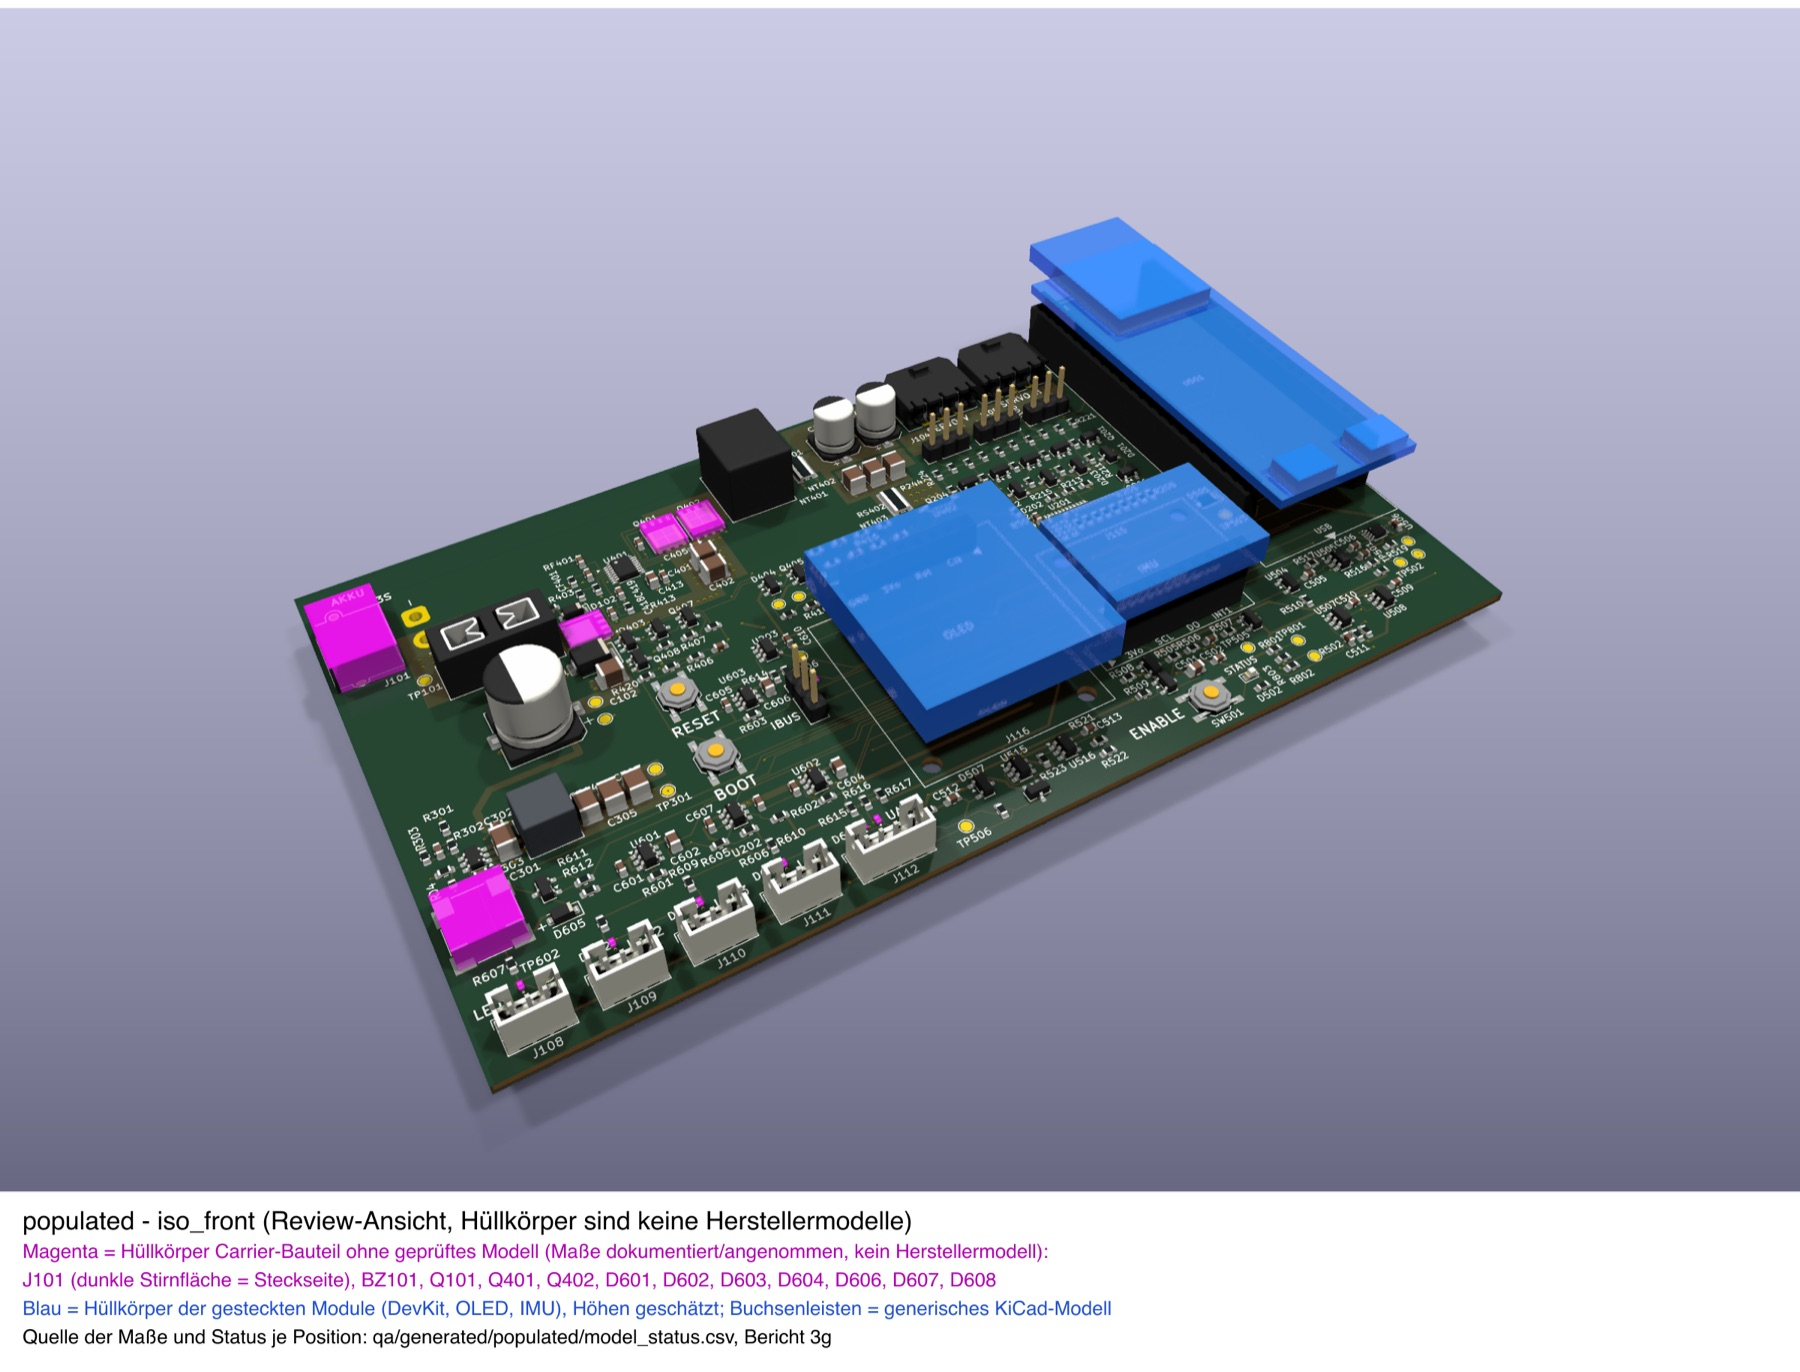
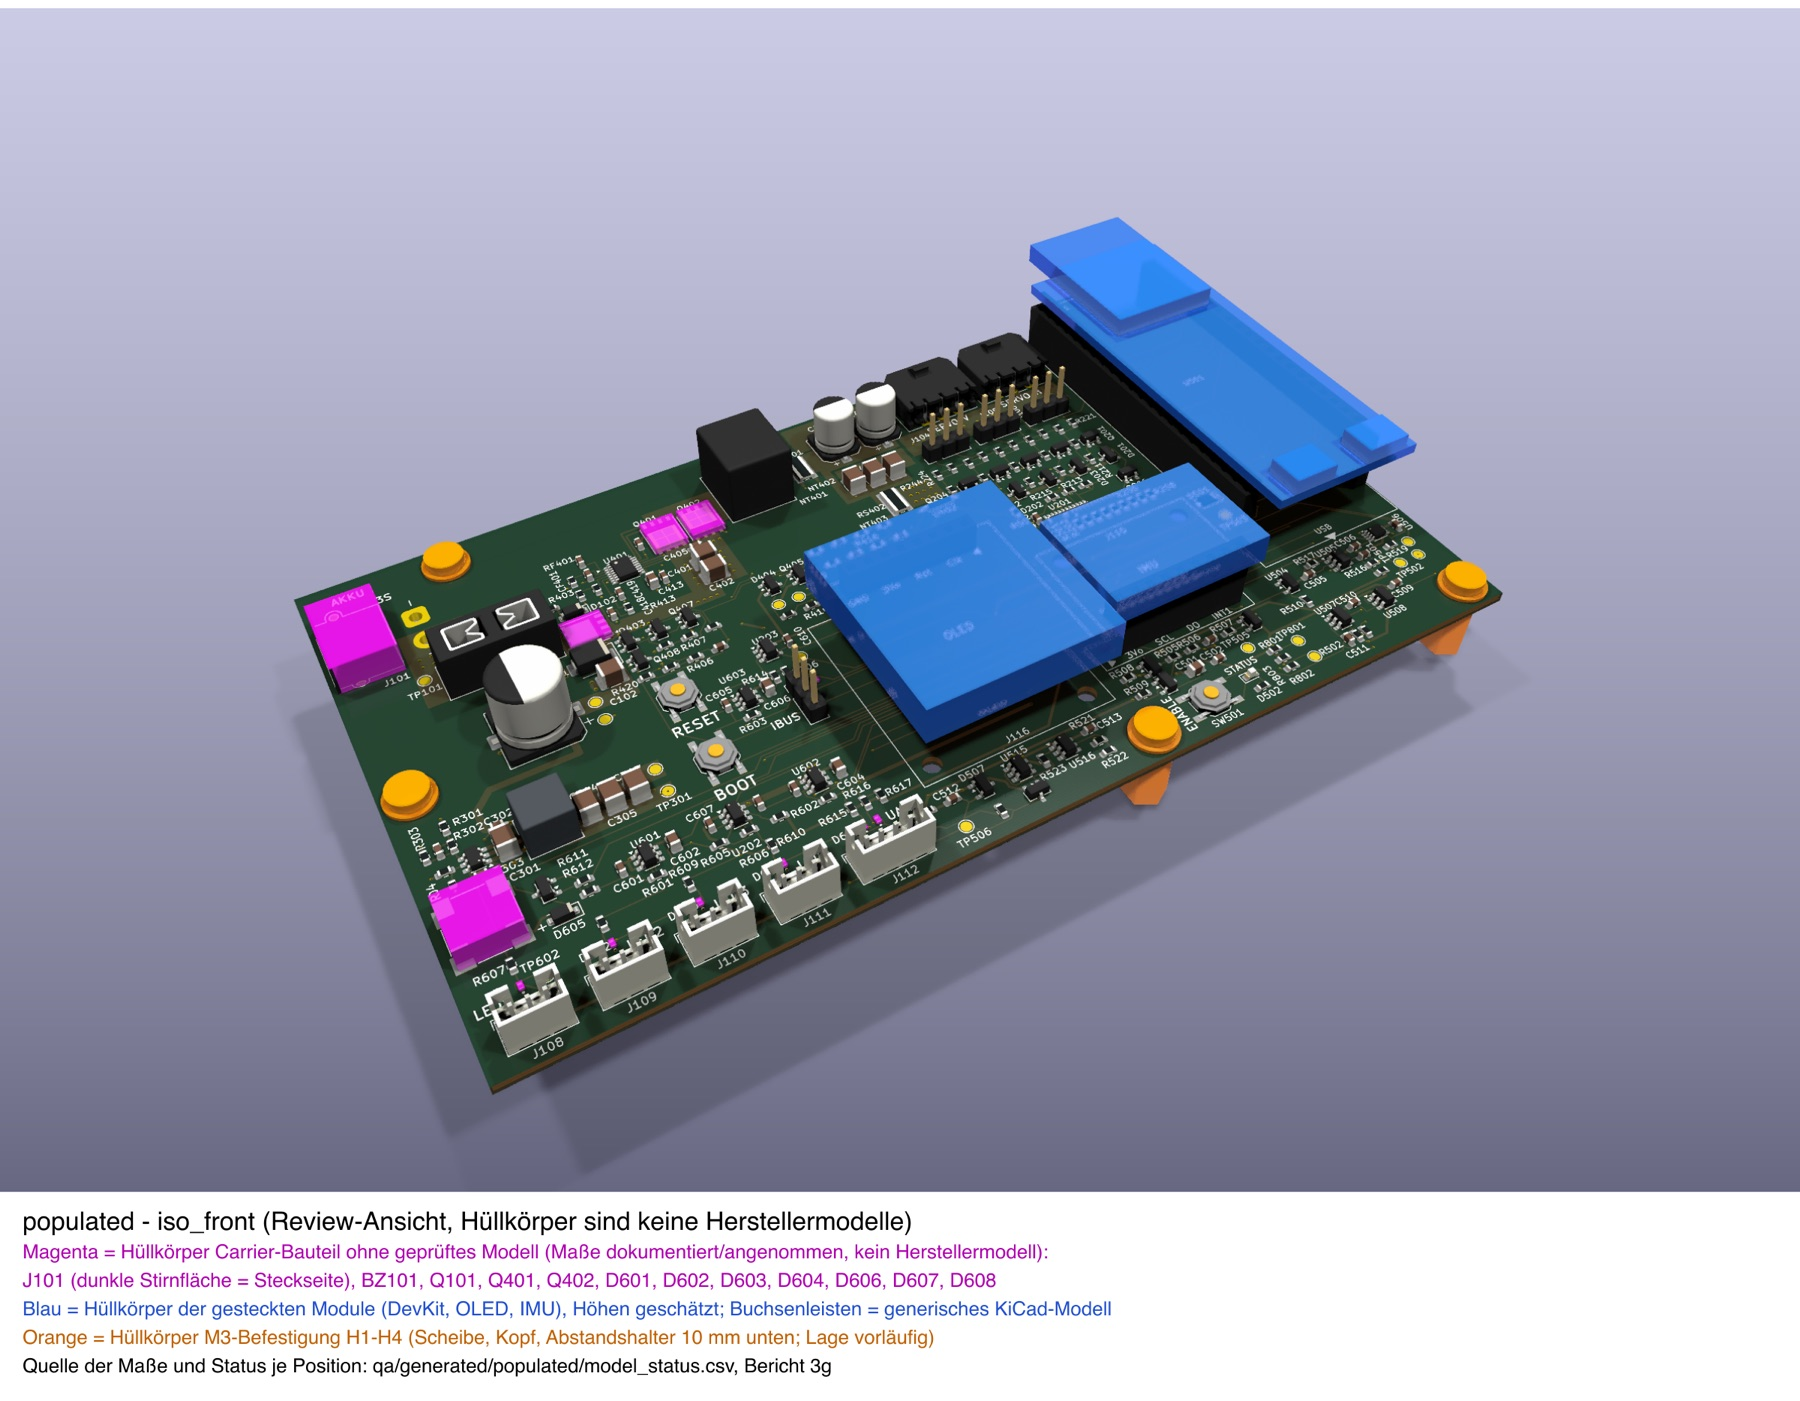
Report 3n, README and Pages: provisional mounting holes

Changed region(s): [[0.0, 0.1531, 1.0, 0.9796]]

diff --git a/docs/vcu/rev1-platzierung.md b/docs/vcu/rev1-platzierung.md
@@ -1214,8 +1214,7 @@ Geltungsbedingung).
   - Die Bestückungszeichnung aus `kit export` ist auf A4 1:1 kaum lesbar;
     ergänzend `qa/generated/fab/assembly_refs_top.pdf` / `_bottom.pdf`
     (nur Referenzen, skaliert).
-- **Keine Befestigungsbohrungen** auf K1, nur Kommentarmarken (3l). Vor der
-  Fertigung festzulegen.
+- Befestigung: seit 3n vier M3-NPTH-Bohrungen H1–H4, Lage vorläufig.
 
 Erstinbetriebnahme: [docs/bringup.md](../bringup.md) (Versorgung, D501,
 Servostrompfad, Abbruchkriterien).
@@ -1295,6 +1294,7 @@ Review-Bilder, Skripte und Dokumentation.
   USB-Steckers (10,4–17,4 mm hoch). Der Schraubenkopf kollidiert nicht, aber
   das Werkzeug kommt nur bei abgezogenem USB-Kabel heran. (91 | 81) liegt
   7,5 mm neben der OLED-Hülle.
+- **Umgesetzt in 3n** (H1–H4, Lage vorläufig). Ursprüngliche Bewertung:
 - **Notwendige mechanische Änderung (separat, vor dem nächsten Paket):**
   Befestigungsbohrungen setzen. Offene Entscheidungen des Owners:
   - Lage, abgestimmt mit dem Chassis;
@@ -1350,6 +1350,97 @@ bleiben, wie sie sind.
   STEP. Möglich wären Anfragen bei AMASS, Vishay und Infineon oder die
   KiCad-Bibliotheksmodelle derselben Footprints (CC-BY-SA, generiert, keine
   Herstellermodelle); dafür ist ein Download aus dem KiCad-GitLab nötig.
+
+## 3n. Befestigungsbohrungen H1–H4 (Stand 2026-11-18, Lage vorläufig)
+
+**Vorgaben:** Im Repository gibt es keine Chassis- oder Gehäusemaße
+(`hardware/mechanical/` enthält nur die Vorlage). Die Lage ist deshalb ein
+**vorläufiger Vorschlag** und vor der Fertigung an der Fahrzeugbefestigung zu
+bestätigen. Vier freie Stellen auf der Platine allein reichen dafür nicht.
+
+*Annahmen* (eigene Wahl, Schätzung):
+- **Schraube und Bohrung:** M3, Durchgangsbohrung 3,2 mm NPTH (ISO 273 fein).
+- **Oberseite:** Kopf ISO 7380 Ø 5,7 × 1,65 mm auf Scheibe ISO 7089
+  Ø 7,0 × 0,5 mm.
+- **Unterseite:** Sechskant-Abstandshalter SW 5,5, über Ecken Ø 6,35 mm,
+  10 mm lang.
+- **Kupfersperre (Sperrfläche im Footprint):**
+  - F.Cu/B.Cu r 3,8 mm (Scheibe bzw. Abstandshalter + 0,3 mm);
+  - In1/In2 r 2,0 mm;
+  - keine Leitungen, Vias oder Flächen.
+- **Courtyard:** r 3,8 mm auf beiden Seiten.
+- **Werkzeugzugang:** nächster Courtyard ≥ 4,5 mm, bei hohen Teilen ≥ 5,5 mm;
+  ≥ 5,5 mm zu den Modulhüllen.
+- **Rand:** Lochmitte ≥ 4,0 mm vom Rand.
+- **Leistungspfade:** kein Kupfer von Regler- oder Hochstromnetzen
+  (VBAT_*, SW_*, ISNS_PWR, VSERVO_REG, +V_SERVO, BOOT_5V, SENSE_P/N, +5V)
+  näher als 5,0 mm. Damit liegt keine Sperrfläche auf einem kritischen Pfad.
+  Signalkupfer muss nur außerhalb der Sperrfläche bleiben.
+
+*Suche* (`hardware/scripts/mounting_holes.py search`, Raster 0,5 mm, ganze
+Platine):
+- Ohne Eingriff in Routing oder Platzierung gibt es **nur vier zulässige
+  Bereiche**: oben links, linke Kante Mitte, untere Kante Mitte, untere
+  rechte Ecke.
+- **Oben rechts ist keine Bohrung möglich:** DevKit-Hülle samt Antenne bis
+  zur Kante. Zwischen den DevKit-Buchsenleisten liegt ein dichter
+  Signalkanal.
+- **Unten links:** LED-Stecker J108–J112 und die Logikversorgung.
+- Selbst mit erlaubtem Umrouten von Signalleitungen findet die Suche in der
+  rechten Hälfte nur (90…91 | 81).
+
+| Bohrung | Lage (K1) | nächstes Kupfer F/B | nächstes Leistungskupfer | Bemerkung |
+|---|---|---|---|---|
+| H1 | (21,0 \| 4,0) | 9,3 mm (J101-Pad) | > 9 mm | neben XT30, Ecke oben links 21 mm entfernt |
+| H2 | (4,0 \| 43,0) | 5,2 mm (+5V) | 5,2 mm | linke Kante Mitte |
+| H3 | (91,0 \| 81,0) | 5,8 mm (VBAT_SW_DRV) / 5,9 mm (VBAT_PROT) | 5,9 mm | links von SW501 |
+| H4 | (146,0 \| 81,0) | 3,81 mm (VBAT_OK_BUF, Signal) | > 5 mm | liegt unter der geschätzten USB-Stecker-/Kabelhülle (10,4–17,4 mm hoch). Der Kopf kollidiert nicht, die Schraube muss aber **vor** dem USB-Kabel gesetzt werden |
+
+Abstände der Lochmitten:
+- H1–H2 42,5 mm, H2–H3 94,9 mm, H3–H4 55,0 mm;
+- H1–H4 146,8 mm, H2–H4 147,0 mm.
+
+**Mechanische Schwäche:** Das DevKit-Feld oben rechts (ca. 25 × 62 mm) hat
+keine eigene Stütze. Steckkräfte beim Einsetzen des DevKits wirken auf eine
+Kragzone. Am Chassis ist dort eine Auflage ohne Schraube vorzusehen, oder
+das DevKit wird vor dem Einbau gesteckt.
+
+*Umsetzung*:
+- **Footprint:** `ProjectFootprints:MountingHole_3.2mm_M3_NPTH_Keepout`
+  (`make_mounting_hole.py`). Grundlage ist KiCads MountingHole_3.2mm_M3,
+  ergänzt um die Sperrflächen, die Courtyards beider Seiten und die Umrisse von
+  Kopf, Scheibe und Abstandshalter.
+- **Schaltplan:** Symbole Mechanical:MountingHole H1–H4 im Hauptblatt, nicht
+  in der BOM, mit dem Hinweis „vorläufig“ (`add_mounting_symbols.py`).
+- **Board:** übernommen mit `build_board.py`, gesetzt und gesperrt mit
+  `mounting_holes.py place`. Die fünf alten Kommentarmarken sind entfernt.
+- **Bestückungsdruck** (`mounting_silk.py`):
+  - Referenzen H1–H4 nur auf F.Fab (H1 hätte über der Kante gestanden);
+  - Platinentext „ENABLE“ lag über H3: Ein Platz in 1,5 mm Höhe fand sich
+    in 15 mm Umkreis von SW501 nicht. Er steht jetzt senkrecht links neben
+    SW501, 1,2 mm hoch, 0,2 mm Strich (JLCPCB ≥ 1,0 / 0,15 mm);
+  - Referenz R301 lag unter der H2-Scheibe und steht jetzt rechts von R301.
+- **Nicht verändert:** Schaltung, Routing und Bauteillagen. Geändert sind nur
+  die GND-Flächen, die um die Sperrflächen neu gefüllt sind.
+
+*Prüfung*:
+- ERC 0, DRC (alle Schweregrade, mit JLCPCB-Regelsatz) 0 Verstöße und 0 offene
+  Verbindungen, Schaltplan-Parität PASS.
+- DRAFT-Paket neu erzeugt. Die Bohrdatei enthält Werkzeug T13 Ø 3,200 mm mit
+  Attribut `NonPlated,NPTH` und vier Treffern an den Sollpositionen. PTH und
+  NPTH stehen gemeinsam in einer Excellon-Datei (KiCad „MixedPlating“); das
+  ist beim Hochladen zu beachten.
+- Abgleich Paket ↔ Board unverändert, einziger offener Fehler D502 ohne
+  Teilenummer.
+- **Bilder:**
+  - bemaßte Draufsicht `docs/images/mounting_top.jpg`
+    (`render_mounting_drawing.py`);
+  - 3D-Ansichten mit orangen Hüllkörpern für Scheibe, Kopf und
+    Abstandshalter (`render_populated_review.py`).
+
+*Offen*: Lage gegen Chassis bzw. Fahrzeugbefestigung bestätigen,
+Abstandshalterlänge, Schraubentyp (Linsen- oder Zylinderkopf), Auflage unter dem
+DevKit-Feld. Bis dahin bleibt das Paket DRAFT/NO-GO.
 
 ## 4. DevKit, Antenne und USB
 

diff --git a/README.md b/README.md
@@ -33,6 +33,11 @@ Quellen stehen in `qa/generated/populated/model_status.csv` und im Bericht
 | ![Mit Modulen, oben](docs/images/populated_top.jpg) | ![Ohne Module, oben](docs/images/without_modules_top.jpg) |
 | ![Flach von vorne](docs/images/populated_front_low.jpg) | ![Unterseite](docs/images/populated_bottom.jpg) |
 
+Befestigung (vorläufig, Bericht 3n): vier M3-Bohrungen, NPTH 3,2 mm; orange in
+den 3D-Ansichten = Hüllkörper für Scheibe, Kopf und 10-mm-Abstandshalter.
+
+![Bemaßte Draufsicht der Befestigungsbohrungen](docs/images/mounting_top.jpg)
+
 Aus den exportierten Gerber- und Bohrdateien gezeichnet
 (`hardware/scripts/gerber_preview.py`), also so, wie der Fertiger sie erhält:
 
@@ -71,8 +76,8 @@ Online: <https://cagricatik.github.io/RoverCore/>
 - Datenblattfelder (44 Teile), 3D-Modelle (14), Bauteilakten.
 - Bestückungsdruck: 1 211 Umrissstriche mit 0,12 mm im exportierten Gerber
   (JLCPCB verlangt 0,15 mm); Entscheidung offen (Bericht 3l).
-- Befestigung: fünf M3-Positionen sind nur Kommentarmarken, keine Bohrungen;
-  Lage, Bohrungsart und Abstandshöhe mit dem Chassis festlegen (Bericht 3l).
+- Befestigung: vier M3-NPTH-Bohrungen H1–H4 gesetzt, Lage **vorläufig** (keine
+  Chassismaße); vor der Fertigung am Fahrzeug bestätigen (Bericht 3n).
 - 3D: Herstellermodelle für XT30, BZ101, Q101, Q401/Q402, D601–D608 sowie
   DevKit, OLED und IMU fehlen noch (Download-Stand je Teil im Bericht 3m).
   J102/J103 haben das Molex-Modell.

diff --git a/hardware/mechanical/README.md b/hardware/mechanical/README.md
@@ -3,3 +3,11 @@
 Enclosure CAD, mounting patterns, height restrictions, connectors, keep-outs,
 bolts, center-of-mass and assembly clearances. Keep real source CAD plus the
 corresponding export(s) when redistribution rights permit.
+
+## RoverCore K1 mounting (provisional, 2026-11-18)
+
+No chassis or enclosure data yet. Four M3 holes, NPTH 3.2 mm, footprint
+`ProjectFootprints:MountingHole_3.2mm_M3_NPTH_Keepout`, positions in K1 coordinates (top-left outline corner,
+y down, board 150 x 85 mm): H1 (21.0 | 4.0), H2 (4.0 | 43.0), H3 (91.0 | 81.0), H4 (146.0 | 81.0).
+Criteria and search: `hardware/scripts/mounting_holes.py`; report section 3n. Confirm against the vehicle before
+fabrication; the DevKit field top right has no support of its own.

diff --git a/docs/index.md b/docs/index.md
@@ -27,6 +27,11 @@ Hüllkörper sind keine Herstellermodelle.
 | ![Mit Modulen, oben](images/populated_top.jpg) | ![Ohne Module, oben](images/without_modules_top.jpg) |
 | ![Flach von vorne](images/populated_front_low.jpg) | ![Unterseite](images/populated_bottom.jpg) |
 
+Befestigung (vorläufig): vier M3-Bohrungen NPTH 3,2 mm, orange = Hüllkörper für
+Scheibe, Kopf und Abstandshalter.
+
+![Bemaßte Draufsicht der Befestigungsbohrungen](images/mounting_top.jpg)
+
 Aus den exportierten Gerber- und Bohrdateien gezeichnet:
 
 | Oberseite | Unterseite (von unten) | Innenlage In1 (GND) |
